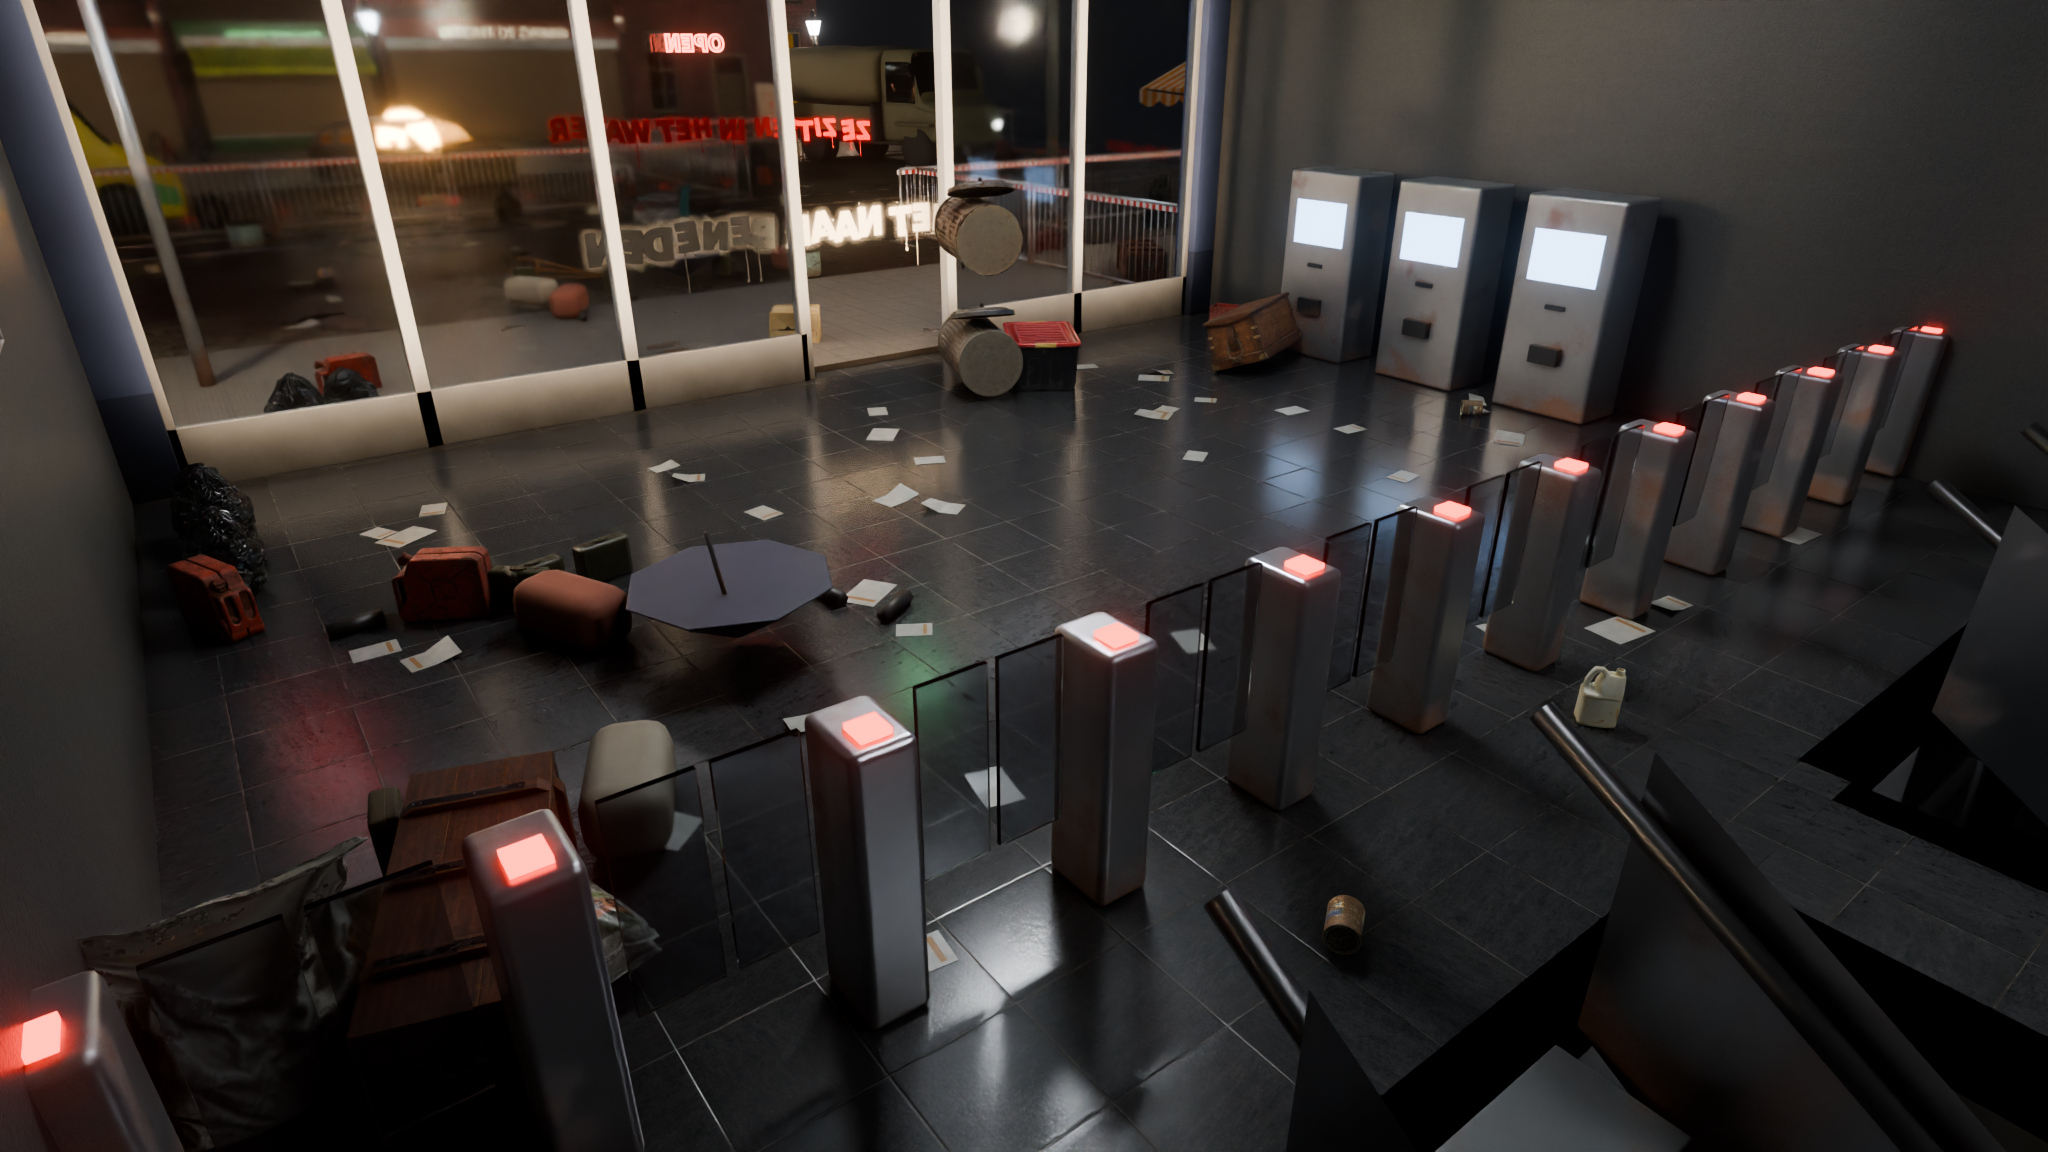
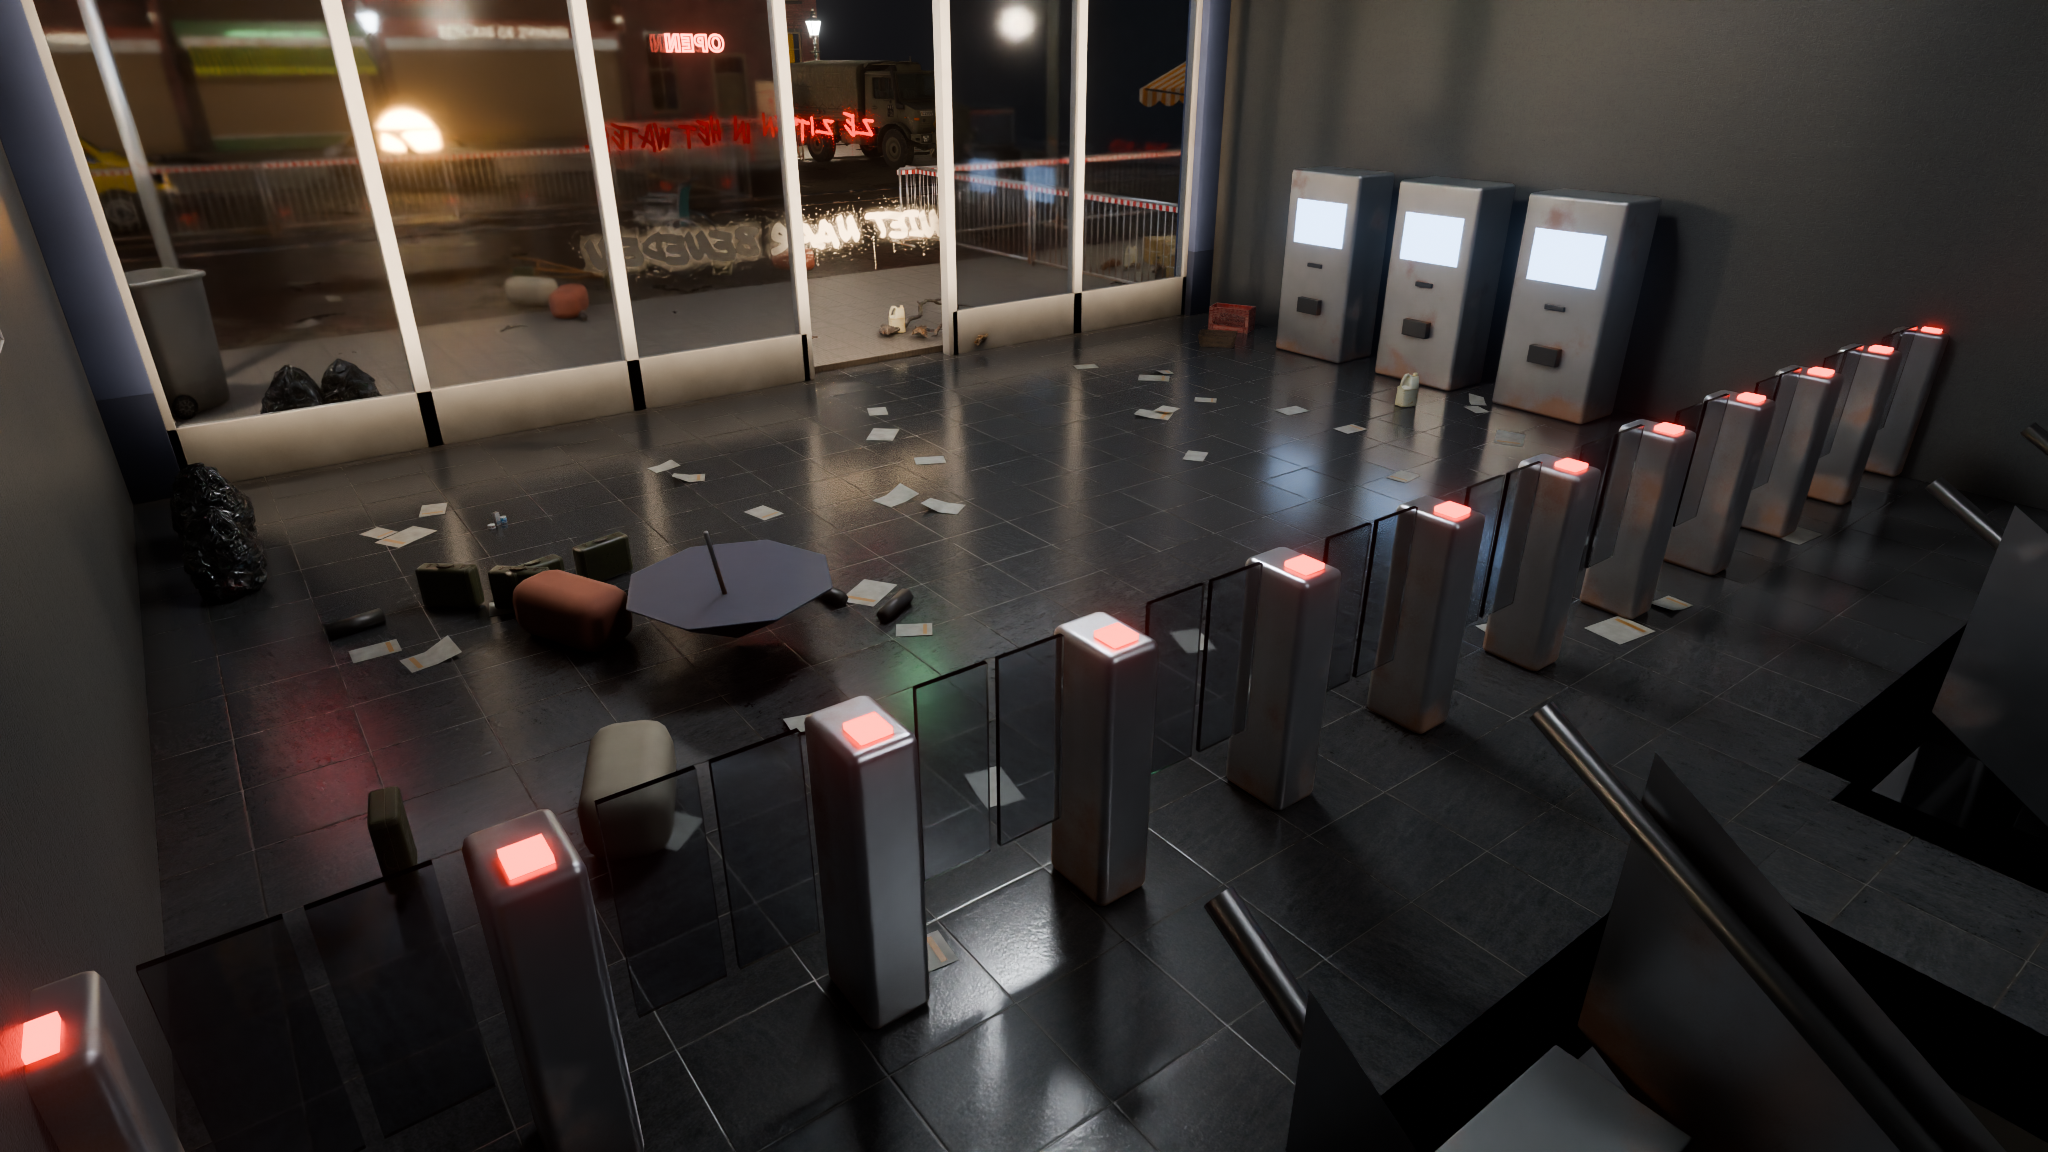
Plates: metro_rokin re-rendered at 2048x1152 (the second look: Amsterdam tram and metro, licensed vehicles and bins, sprayed paint, patchy silt, re-dressed)
Claude-Session: https://claude.ai/code/session_018Fg2TGhREH4MYXioixRmNn

diff --git a/tools/citygen/catastrophe.py b/tools/citygen/catastrophe.py
@@ -374,13 +374,13 @@ AUTO = {"apotheek", "beurs_zaal", "bioscoop", "bloemenmarkt", "centraal_hal", "d
 
 STORIES = {"rokin_zuid": rokin_zuid, "rokin_noord": rokin_noord, "dam": dam, "stationsplein": stationsplein}
 ACTIVE = {"dam", "rokin_noord", "rokin_zuid", "stationsplein"}   # the hand-told streets whose plates are rendered (others wait for theirs)
-DRESSED = {"bloemenmarkt", "centraal_hal", "dam", "damrak_noord", "damrak_zuid", "herengracht", "kalversteeg", "kalverstraat", "kalverstraat_noord", "metro_centraal", "muntplein", "reguliersbreestraat", "rembrandtplein", "rokin_noord", "rokin_zuid", "station_noord", "stationsplein", "thorbeckeplein"}   # the rooms whose plates show dress() (the night's leavings by what each place was), not the old scatter
+DRESSED = {"bloemenmarkt", "centraal_hal", "dam", "damrak_noord", "damrak_zuid", "herengracht", "kalversteeg", "kalverstraat", "kalverstraat_noord", "metro_centraal", "metro_rokin", "muntplein", "reguliersbreestraat", "rembrandtplein", "rokin_noord", "rokin_zuid", "station_noord", "stationsplein", "thorbeckeplein"}   # the rooms whose plates show dress() (the night's leavings by what each place was), not the old scatter
 for _r in filter(None, __import__("os").environ.get("DW_DRESSED", "").split(",")):
     DRESSED.add(_r)
 # The rooms whose plates show the second look (2026-11): the Amsterdam tram's five sections, wheelie
 # bins for dustbins. A room joins in the commit that brings its re-rendered plates. DW_LOOK2=a,b,...
 # adds rooms for a build of the next ones to render (into a scratch DW_ROOMS).
-LOOK2 = {"bloemenmarkt", "centraal_hal", "dam", "damrak_noord", "damrak_zuid", "herengracht", "kalversteeg", "kalverstraat", "kalverstraat_noord", "metro_centraal", "muntplein", "reguliersbreestraat", "rembrandtplein", "rokin_noord", "rokin_zuid", "station_noord", "stationsplein", "thorbeckeplein"}
+LOOK2 = {"bloemenmarkt", "centraal_hal", "dam", "damrak_noord", "damrak_zuid", "herengracht", "kalversteeg", "kalverstraat", "kalverstraat_noord", "metro_centraal", "metro_rokin", "muntplein", "reguliersbreestraat", "rembrandtplein", "rokin_noord", "rokin_zuid", "station_noord", "stationsplein", "thorbeckeplein"}
 for _r in filter(None, __import__("os").environ.get("DW_LOOK2", "").split(",")):
     LOOK2.add(_r)
 BINS = ["sf:bin_green", "sf:bin_blue", "sf:bin_orange"]   # licensed models (tools/assets/models.json): what Amsterdam puts out, not a film's dustbin
